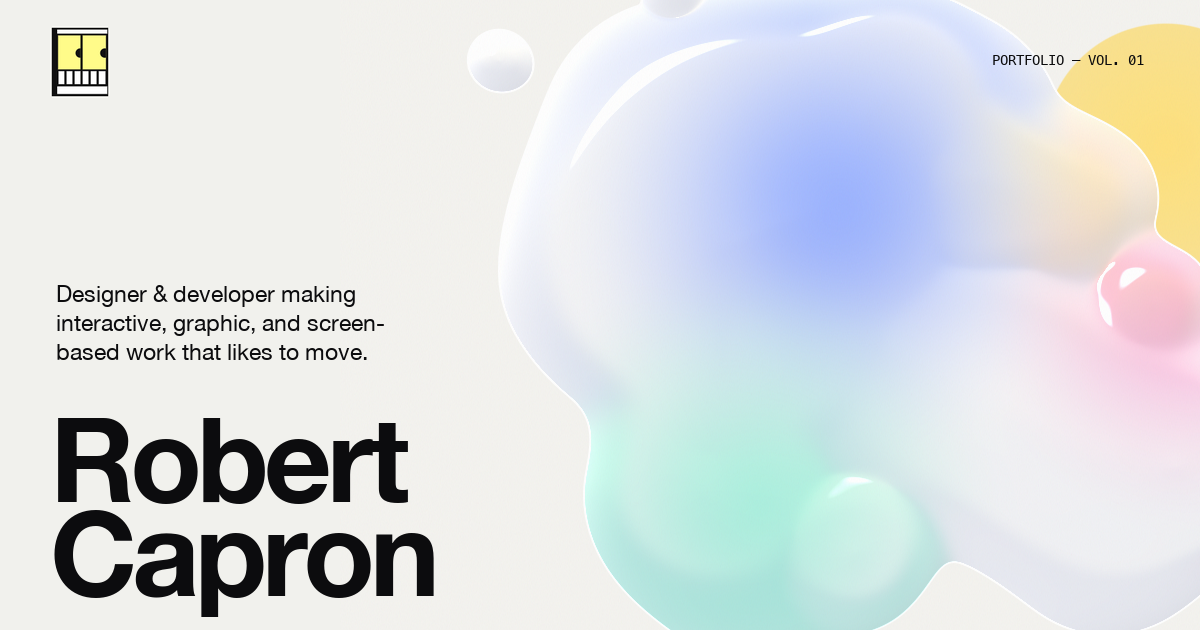
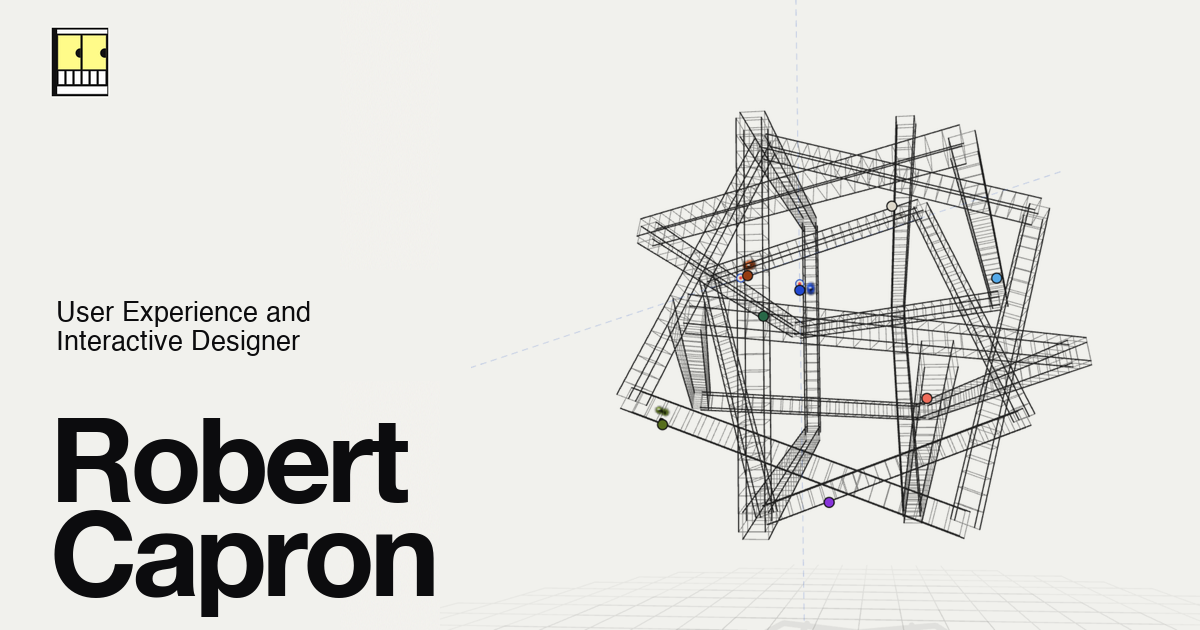
Share card: Etch instead of the blob, current tagline, no name tags

diff --git a/index.html b/index.html
@@ -17,7 +17,7 @@
   <meta property="og:image" content="https://robart.nom.co/og-image.png">
   <meta property="og:image:width" content="1200">
   <meta property="og:image:height" content="630">
-  <meta property="og:image:alt" content="Robert Capron beside a frosted-glass liquid blob">
+  <meta property="og:image:alt" content="Robert Capron, user experience and interactive designer, beside a rotating 3D wireframe sketch">
   <meta name="twitter:card" content="summary_large_image">
   <!-- Stand-ins for Tosh a / Coolvetica until the real font files are added
        (drop them in fonts/ — the @font-face rules below pick them up). -->
